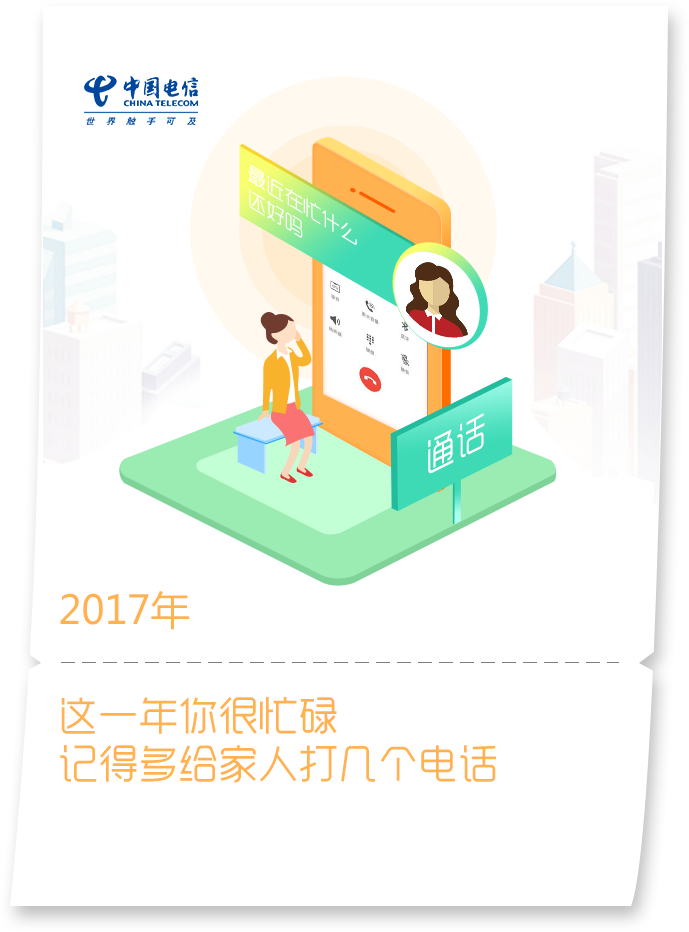
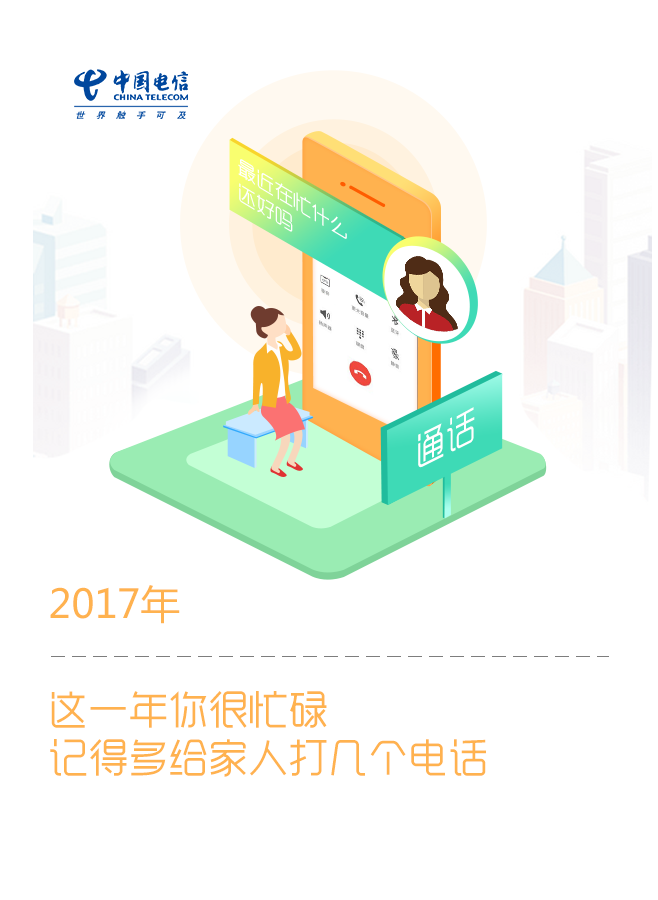
1

diff --git a/css/styles.less b/css/styles.less
@@ -117,11 +117,11 @@ main{
   background-size: cover;
   >div{
     div{
-      top: 0rem;
-      left: 0;
+      top: .06rem;
+      left: .14rem;
       position: absolute;
-      width: 6.89rem;
-      height: 9.32rem;
+      width: 6.58rem;
+      height: 9rem;
       transition: transform 1s linear;
       -webkit-transition: transform 1s linear;
       transform-origin: top center;
@@ -129,7 +129,7 @@ main{
       p:nth-child(1){
         position: absolute;
         left: .54rem;
-        bottom: 3rem;
+        bottom: 2.7rem;
         font-size: .39rem;
         color: #ffb24f;
         span:nth-child(1){
@@ -145,7 +145,7 @@ main{
       p:nth-child(2){
         position: absolute;
         left: .54rem;
-        bottom: .6rem;
+        bottom: .35rem;
         font-size: .26rem;
         color: #666666;
         span{

diff --git a/css/styles.css b/css/styles.css
@@ -116,11 +116,11 @@ main {
   background-size: cover;
 }
 main > div div {
-  top: 0rem;
-  left: 0;
+  top: .06rem;
+  left: .14rem;
   position: absolute;
-  width: 6.89rem;
-  height: 9.32rem;
+  width: 6.58rem;
+  height: 9rem;
   transition: transform 1s linear;
   -webkit-transition: transform 1s linear;
   transform-origin: top center;
@@ -129,7 +129,7 @@ main > div div {
 main > div div p:nth-child(1) {
   position: absolute;
   left: .54rem;
-  bottom: 3rem;
+  bottom: 2.7rem;
   font-size: .39rem;
   color: #ffb24f;
 }
@@ -145,7 +145,7 @@ main > div div p:nth-child(1) span:nth-child(1) {
 main > div div p:nth-child(2) {
   position: absolute;
   left: .54rem;
-  bottom: .6rem;
+  bottom: .35rem;
   font-size: .26rem;
   color: #666666;
 }
